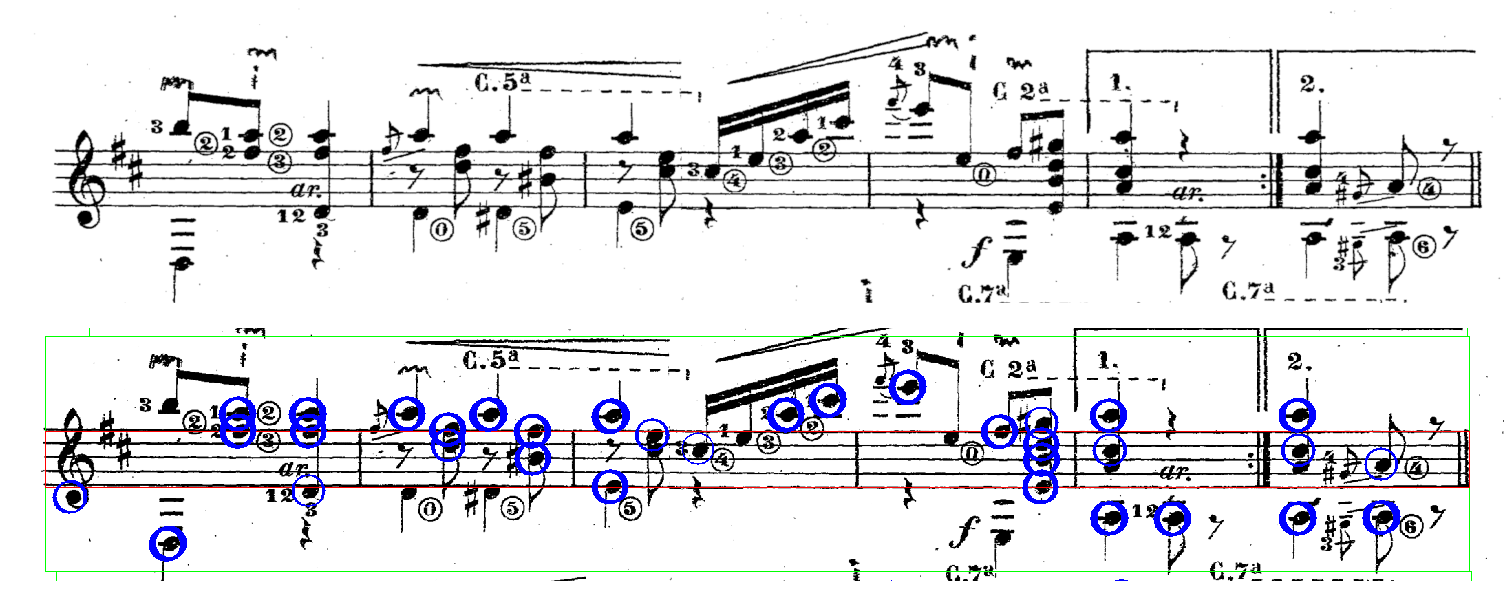
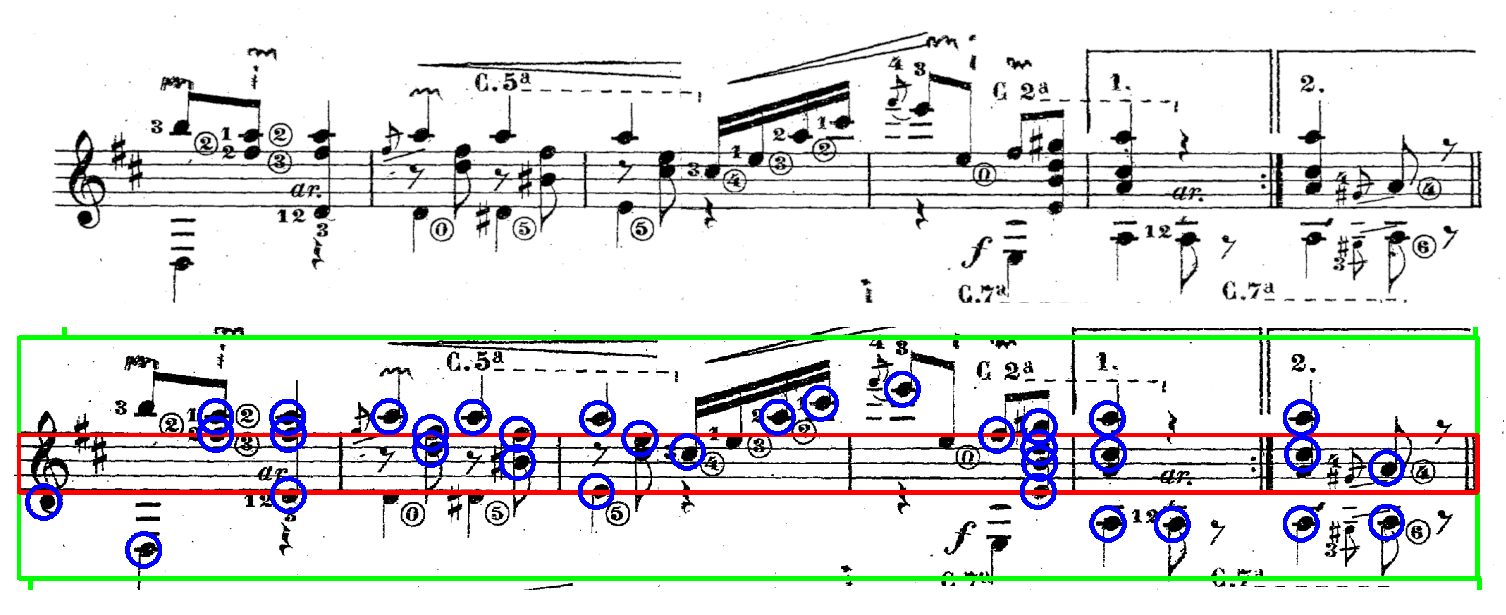
Embolden display overlay lines based on image size/resolution

Changed region(s): [[0.0, 0.5252, 0.9987, 0.9577]]

diff --git a/detect.py b/detect.py
@@ -21,6 +21,11 @@ class Controller():
             self.image_name = f'{name}.png'
         self.main = StaffDetector(self.image_name)
 
+        # Calculate overlay sizing info
+        self.radius = int(np.mean([s.note_size for s in self.main.staffs]))
+        self.boldness = max(1, int(self.radius / 4))
+
+        # Draw overlays and display image
         self.copy = np.copy(self.main.image)
 #        self.show_lines(self.copy)
         self.show_boxes(self.copy)
@@ -30,7 +35,7 @@ class Controller():
     def show_lines(self, img, color=(255, 0, 0)):
         for line in self.main.lines:
             (x1, y1, x2, y2) = line
-            cv2.line(img, (x1, y1), (x2, y2), color, 3)
+            cv2.line(img, (x1, y1), (x2, y2), color, self.boldness)
 
     def show_boxes(self, img):
         ''' Highlight detected staffs with red borders (much cleaner)
@@ -38,17 +43,17 @@ class Controller():
         for a, b in zip(self.main.small_boxes, self.main.large_boxes):
             box_a = (a[:2], a[2:])
             box_b = (b[:2], b[2:])
-            cv2.rectangle(img, *box_b, (0, 255, 0))  # Green around large_boxes
-            cv2.rectangle(img, *box_a, (255, 0, 0))  # Red around small_boxes
+            cv2.rectangle(img, *box_b, (0, 255, 0), self.boldness)  # Green around large_boxes
+            cv2.rectangle(img, *box_a, (255, 0, 0), self.boldness)  # Red around small_boxes
 
     def show_notes(self, img):
         for staff in self.main.staffs:
             H, W = staff.notes.shape[:2]
-            radius = staff.note_size
+#            radius = staff.note_size
             for y, x in it.product(range(H), range(W)):
                 if staff.notes[y, x]:
                     loc = tuple(np.add((x, y), staff.origin))
-                    cv2.circle(img, loc, radius, (0, 0, 255))
+                    cv2.circle(img, loc, self.radius, (0,0,255), self.boldness)
 
     @staticmethod
     def detect_edges(img, sigma=0.33):
